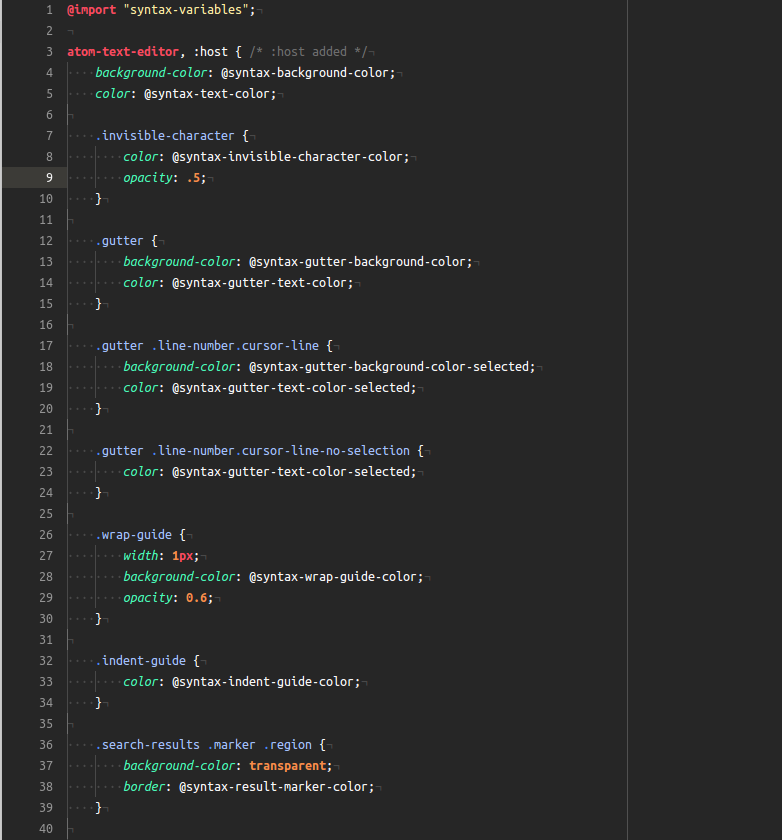
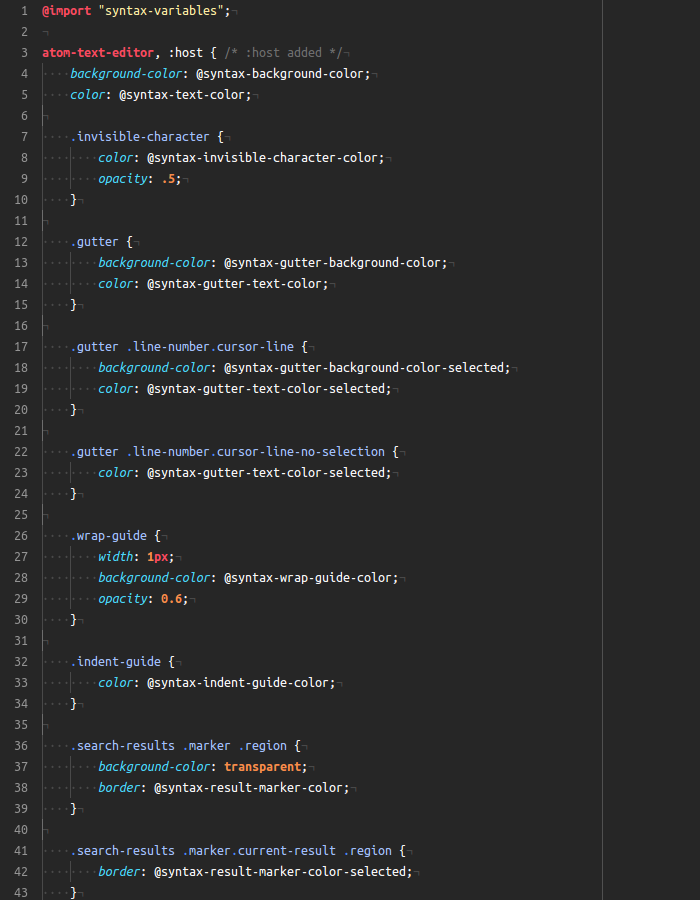
Changed colours slightly.
Now predominantly using green rather than cyan.

Changed region(s): [[0.0, 0.0, 0.72, 1.0]]

diff --git a/styles/base.less b/styles/base.less
@@ -1,6 +1,7 @@
 @import "syntax-variables";
 
-atom-text-editor, :host { /* :host added */
+/* CSS Comment */
+atom-text-editor, :host {
     background-color: @syntax-background-color;
     color: @syntax-text-color;
 
@@ -44,6 +45,10 @@ atom-text-editor, :host { /* :host added */
 
     .selection .region {
         background-color: @syntax-selection-color;
+    }
+
+    .line.cursor-line {
+        background-color: lighten(@syntax-background-color, 3%);
     }
 
     .wrap-guide {
@@ -102,7 +107,7 @@ atom-text-editor, :host { /* :host added */
 }
 
 .storage.type {
-    color: @cyan;
+    color: @green;
     font-style: italic;
 }
 
@@ -208,9 +213,6 @@ atom-text-editor, :host { /* :host added */
 .entity.name.tag.html {
     color: @red;
 }
-.punctuation.definition.tag.html {
-    //color: @green;
-}
 .entity.other.attribute-name.html {
     color: @orange;
 }
@@ -219,12 +221,12 @@ atom-text-editor, :host { /* :host added */
 }
 .punctuation.section.embedded.begin.php,
 .punctuation.section.embedded.end.php {
-    color: @light-blue;
-    font-style: italic;
+    color: @cyan;
+    font-weight: bold;
 }
 .meta.tag.doctype.html {
-    color: @green;
-    font-style: italic;
+    color: @cyan;
+    font-weight: bold;
 }
 
 /** JSON **/
@@ -249,11 +251,8 @@ atom-text-editor, :host { /* :host added */
 .entity.other.attribute-name.class.css {
     color: @light-blue;
 }
-.variable.other.less {
-    //color: @light-purple;
-}
 .support.type.property-name.css {
-    color: @green;
+    color: @cyan;
 }
 
 /** OTHER **/
@@ -265,24 +264,23 @@ atom-text-editor, :host { /* :host added */
 .source.gfm .markup {
     -webkit-font-smoothing: auto;
     &.heading {
-        color: @light-green;
+        color: @syntax-color-added;
     }
 }
 
 /** git updates **/
 .git-line-added,
-.git-line-added:before
- {
-    color: @green;
+.git-line-added:before {
+    color: @syntax-color-added;
     opacity: 1;
 }
 .git-line-modified,
 .git-line-modified:before {
-    color: @yellow;
+    color: @syntax-color-modified;
     opacity: 1;
 }
 .git-line-removed,
 .git-line-removed:before {
-    color: @red;
+    color: @syntax-color-removed;
     opacity: 1;
 }

diff --git a/styles/syntax-variables.less b/styles/syntax-variables.less
@@ -4,7 +4,7 @@
 @syntax-text-color: @very-light-gray;
 @syntax-cursor-color: @very-light-gray;
 @syntax-background-color: @very-dark-gray;
-@syntax-selection-color: @dark-gray;//lighten(@very-dark-gray, 12.5%);
+@syntax-selection-color: @dark-gray;
 
 // Guide colors
 @syntax-wrap-guide-color: @gray;
@@ -19,11 +19,10 @@
 @syntax-gutter-text-color: @light-gray;
 @syntax-gutter-text-color-selected: @very-light-gray;
 @syntax-gutter-background-color: @very-dark-gray;
-@syntax-gutter-background-color-selected: @dark-gray;//lighten(@very-dark-gray, 12.5%);
+@syntax-gutter-background-color-selected: @dark-gray;
 
 // For git diff info. i.e. in the gutter
-// These are static and were not extracted from your textmate theme
 @syntax-color-renamed: @light-blue;
 @syntax-color-added: @light-green;
-@syntax-color-modified: @yellow;
-@syntax-color-removed: @light-red;
+@syntax-color-modified: @orange;
+@syntax-color-removed: @red;

diff --git a/test.php b/test.php
@@ -1,0 +1,41 @@
+<?php namespace PaulH\DummyScript\Whatever;
+
+use Illuminate\Support\ServiceProvider;
+
+// This is a comment
+
+class CoreServiceProvider extends ServiceProvider {
+
+    protected $test;
+
+    public function __construct()
+    {
+        echo "hello world";
+        $this->test = true;
+    }
+
+    /**
+     * Get the value of Test
+     *
+     * @return mixed
+     */
+    public function getTest()
+    {
+        return $this->test;
+    }
+
+    /**
+     * Set the value of Test
+     *
+     * @param mixed test
+     *
+     * @return self
+     */
+    public function setTest($test)
+    {
+        $this->test = $test;
+
+        return $this;
+    }
+
+}

diff --git a/CHANGELOG.md b/CHANGELOG.md
@@ -5,3 +5,11 @@
 
 ## 0.1.0 - Updated colours
 * Complementary colours added.
+
+## 0.2.0 - Added to Atom.io
+* This version was generated when it was added to Atom.io.  There are no changes from 0.1.0
+
+## 0.3.0 - Updated colours
+* Switched some use of Cyan and Green
+* Updated Git diff colours
+* Added background colour to current line
